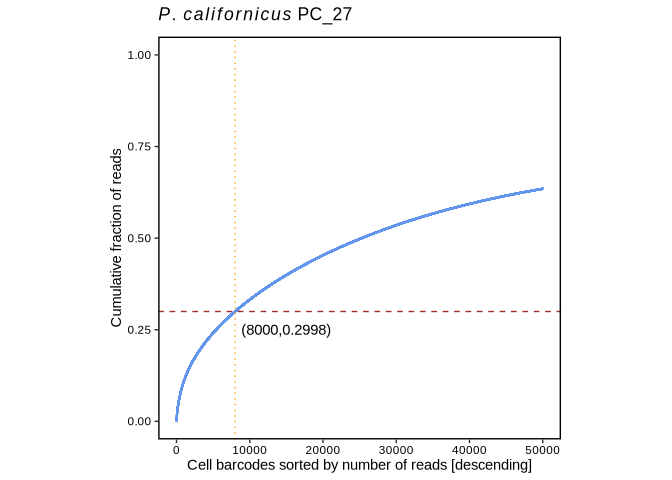
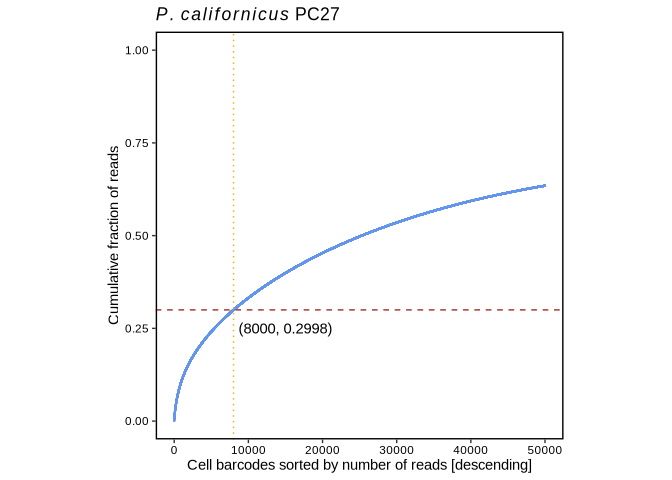
Edit Rmd

diff --git a/scRNAseq_Phymatopus_californicus.md b/scRNAseq_Phymatopus_californicus.md
@@ -1,7 +1,7 @@
-Single-cell RNA sequencing of *Phymatopus californicus* samples
+Single-cell RNA sequencing of *Phymatopus californicus* sample PC27
 ================
-Bulah Wu
-July 15, 2024
+Andrea Elizabeth Acurio Armas, Bulah Wu, Petr Nguyen  
+July 18, 2024
 
 ## Genome assembly and annotation
 
@@ -41,9 +41,7 @@ Size distribution assessed by Bioanalyzer
 
 [FastQC](https://www.bioinformatics.babraham.ac.uk/projects/fastqc/) was
 used for quality check. Output can be found
-[here](/media/nguyen/Data1/github/bulahwoo/scRNAseq_Phymatopus_californicus/data/fastqc_pc27_read1_pre.html)
-and
-[here](/media/nguyen/Data1/github/bulahwoo/scRNAseq_Phymatopus_californicus/data/fastqc_pc27_read2_pre.html).
+[here](fastqc/read1/fastqc.md) and [here](fastqc/read2/fastqc.md).
 
 ## Drop-seq protocol
 
@@ -165,7 +163,7 @@ ggplot(df_pc27, aes(xvalue, yvalue)) +
   geom_hline(aes(yintercept=df_pc27 %>% filter(xvalue==8000) %>% pull(yvalue)), color="brown", linetype=2)+
   geom_vline(aes(xintercept=8000), color="orange", linetype=3)+
   annotate("text", x=15000, y=0.25, label="(8000, 0.2998)")+ # 0.2998019
-  labs(title=expression(italic(P.)~italic(californicus)~"PC_27"), x="Cell barcodes sorted by number of reads [descending]", y="Cumulative fraction of reads") +
+  labs(title=expression(italic(P.)~italic(californicus)~"PC27"), x="Cell barcodes sorted by number of reads [descending]", y="Cumulative fraction of reads") +
   theme_bw() +
   theme(axis.line = element_blank(),
         axis.title = element_text(color="black"),
@@ -176,6 +174,8 @@ ggplot(df_pc27, aes(xvalue, yvalue)) +
         panel.border = element_rect(linewidth = 1, color="black"), aspect.ratio = 1)
 ```
 
+![](scRNAseq_Phymatopus_californicus_files/figure-gfm/knee-plot-1.png)<!-- -->
+
 ## DropletUtils analysis
 
 [Nikos Konstantinides](https://konstantinides-lab.com) suggested using
@@ -185,16 +185,15 @@ cell barcodes (organized by the number of reads, arranged from highest
 to lowest) and the y-axis the total UMI count for each barcode.
 
 ``` r
-for_row_names <- read.table("/media/nguyen/Data1/mao/scseq/dropseq/pc27mito/dge_c10k.txt.gz", header=T, stringsAsFactors=F)$GENE
-m_pc27 <- read.table("/media/nguyen/Data1/mao/scseq/dropseq/pc27mito/dge_c10k.txt.gz", header=T, stringsAsFactors=F, row.names = for_row_names)[,-1]
-br.out <- barcodeRanks(m_pc27)
+mtx_pc27 <- read.table("/media/nguyen/Data1/mao/scseq/dropseq/pc27mito/dge_c8k.txt.gz", header = TRUE, row.names = 1, colClasses =c("character", rep("numeric", 8000)))
+br.out <- barcodeRanks(mtx_pc27)
 o <- order(br.out$rank)
-# metadata(br.out)$knee: 273
-# which(br.out$total==273)[1]
-min_rank <- br.out$rank[3905] # 7321
-# metadata(br.out)$inflection : 114
-# which(br.out$total==114)[1]
-max_rank <- br.out$rank[7873] # 9401
+# metadata(br.out)$knee: 298
+# metadata(br.out)$inflection : 134
+# which(br.out$total==298)[1]
+min_rank <- br.out$rank[which(br.out$total==298)[1]] # 5916.5
+# which(br.out$total==134)[1]
+max_rank <- br.out$rank[which(br.out$total==134)[1]] # 7494
 ggplot()+
   geom_point(aes(x=br.out$rank, y=br.out$total+1), color="grey50", size=0.5, alpha=0.5)+
   geom_line(aes(x=br.out$rank[o],y=br.out$fitted[o]), color="magenta")+
@@ -202,11 +201,11 @@ ggplot()+
   geom_hline(aes(yintercept=metadata(br.out)$inflection), color="brown", linetype=2)+
   geom_vline(aes(xintercept=min_rank), color="orange", linetype=3)+
   geom_vline(aes(xintercept=max_rank), color="orange", linetype=3)+
-  annotate("text", x=2000, y=500, label="(7321, 273)")+
-  annotate("text", x=20000, y=70, label="(9401, 114)")+
+  annotate("text", x=2000, y=500, label="(5916.5, 298)")+
+  annotate("text", x=20000, y=70, label="(7494, 134)")+
   scale_x_continuous(limits=c(1,50000), trans='log10', breaks = c(1,10,100,1000,10000,10000),labels = scales::number)+
   scale_y_continuous(limits=c(1,50000), trans='log10', breaks = c(1,10,100,1000,10000,10000),labels = scales::number)+
-  labs(title=expression(italic(P.)~italic(californicus)~"PC_27"),
+  labs(title=expression(italic(P.)~italic(californicus)~"PC27"),
        x="Cell barcodes sorted by number of counts [descending]",
        y="Total UMI count for each barcode") +
   theme_bw() +
@@ -219,66 +218,72 @@ ggplot()+
         panel.border = element_rect(linewidth = 1, color="black"), aspect.ratio = 1)
 ```
 
-|       | FALSE | TRUE |
-|:------|------:|-----:|
-| FALSE |  2038 | 7016 |
-| TRUE  |     0 |  348 |
+![](scRNAseq_Phymatopus_californicus_files/figure-gfm/barcodeRanks-1.png)<!-- -->
+
+Subset the SingleCellExperiment object to discard the empty droplets.
 
 ``` r
-for_row_names <- read.table("/media/nguyen/Data1/mao/scseq/dropseq/pc27mito/dge_c10k.txt.gz", header=T, stringsAsFactors=F)$GENE
-m_pc27 <- read.table("/media/nguyen/Data1/mao/scseq/dropseq/pc27mito/dge_c10k.txt.gz", header=T, stringsAsFactors=F, row.names = for_row_names)[,-1]
+#mtx_pc27 <- read.table("/media/nguyen/Data1/mao/scseq/dropseq/pc27mito/dge_c8k.txt.gz", header = TRUE, row.names = 1, colClasses =c("character", rep("numeric", 8000)))
 set.seed(100)
-e.out <- emptyDrops(m_pc27, niters=10000)
+e.out <- emptyDrops(mtx_pc27, niters=10000)
 is.cell <- e.out$FDR <= 0.001
 sum(is.cell, na.rm=TRUE)
-knitr::kable(table(Limited=e.out$Limited, Significant=is.cell))
 ```
 
+    ## [1] 5919
+
 ``` r
-ggplot(e.out %>% as.data.frame() %>% filter(!is.na(LogProb)) %>% mutate(FDR_fill=ifelse(FDR>0.001, "cornflowerblue", "orange")))+
-  geom_point(aes(x=Total, y=-LogProb, color=FDR_fill), size=1, alpha=0.5)+
-  scale_color_manual(values=c("cornflowerblue", "orange"), labels=c('FDR > 0.001', 'FDR <= 0.001'))+
-  labs(title=expression(italic(P.)~italic(californicus)~"PC_27"),
-       x="Total UMI count",
-       y="-Log Probability") +
-  theme_bw() +
-  theme(axis.line = element_blank(),
-        axis.title = element_text(color="black"),
-        axis.text = element_text(color="black"),
-        legend.title = element_blank(),
-        legend.position = "inside",
-        legend.position.inside = c(0.8, 0.2),
-        panel.grid.major = element_blank(),
-        panel.grid.minor = element_blank(),
-        panel.background = element_blank(),
-        panel.border = element_rect(linewidth = 1, color="black"), aspect.ratio = 1)
+table(Limited=e.out$Limited, Significant=is.cell)
+```
+
+    ##        Significant
+    ## Limited FALSE TRUE
+    ##   FALSE  1576 5430
+    ##   TRUE      0  489
+
+``` r
+mtx_pc27 <- mtx_pc27[,which(e.out$FDR<=0.001)]
 ```
 
 ## UMAP plot
 
-We used [Seurat](https://satijalab.org/seurat) to generate the UMAP
+[Seurat](https://satijalab.org/seurat) was used to generate the UMAP
 plot.
 
 ``` r
-mtx_pc27 <- read.table("/media/nguyen/Data1/mao/scseq/dropseq/pc27mito/dge_c10k.txt.gz", header = TRUE, row.names = 1, colClasses =c("character", rep("numeric", 10000)))
 so_pc27 <- CreateSeuratObject(counts = mtx_pc27, min.cells = 3, min.features = 200, project = "pc27") %>%
            PercentageFeatureSet(pattern = "^agat|^rrn", col.name = "percent.mt") %>%
+           subset(subset = nFeature_RNA > 200 & nFeature_RNA < 2500 & percent.mt < 5) %>%
            SCTransform(vars.to.regress = "percent.mt") %>%
            RunPCA() %>%
            FindNeighbors(dims = 1:30) %>%
            RunUMAP(dims = 1:30) %>%
            FindClusters()
+```
+
+    ## Modularity Optimizer version 1.3.0 by Ludo Waltman and Nees Jan van Eck
+    ## 
+    ## Number of nodes: 5903
+    ## Number of edges: 163017
+    ## 
+    ## Running Louvain algorithm...
+    ## Maximum modularity in 10 random starts: 0.7222
+    ## Number of communities: 12
+    ## Elapsed time: 0 seconds
+
+``` r
 df_umap <- so_pc27@reductions$umap@cell.embeddings %>% as.data.frame() %>% cbind(color=so_pc27@meta.data$seurat_clusters)
-my_color <- c(brewer.pal(name="Set2", n=8),brewer.pal(name="Dark2", n=8))[c(1,3,2,4,5:8,12,14,15)]
+#length(unique(df_umap$color))
+my_color <- c(brewer.pal(name="Set2", n=8),brewer.pal(name="Dark2", n=8))[c(1,3,2,4,5,6,7,8,12,14,15,16)]
+#my_color <- c(brewer.pal(name="Set2", n=8),brewer.pal(name="Dark2", n=8))[c(1,3,2,5,4,6,7,16,12,14,15,8,11)]
 ggplot(df_umap) +
   geom_point(aes(x=umap_1, y=umap_2, color=color), size=0.8) +
   geom_text_repel(data=df_umap %>% group_by(color) %>% summarise(q1=quantile(umap_1, 0.5), q2=quantile(umap_2, 0.5)),
-                  aes(x=q1, y=q2, label = LETTERS[1:11]), size=8) +
-  labs(title=expression(italic(P.)~italic(californicus)~"PC_27"),
+                  aes(x=q1, y=q2, label = LETTERS[1:12]), size=8) +
+  labs(title=expression(italic(P.)~italic(californicus)~"PC27"),
        x="UMAP_1",
        y="UMAP_2") +
-  #scale_color_brewer(palette = "Set2", name="clusters", labels=LETTERS[1:11]) +
-  scale_color_manual(values = my_color, name="clusters", labels=LETTERS[1:11]) +
+  scale_color_manual(values = my_color, name="clusters", labels=LETTERS[1:12]) +
   guides(color = guide_legend(override.aes = list(size = 5))) +
   theme_bw() +
   theme(axis.line = element_blank(),
@@ -292,6 +297,8 @@ ggplot(df_umap) +
         panel.background = element_blank(),
         panel.border = element_rect(linewidth = 1, color="black"), aspect.ratio = 1)
 ```
+
+![](scRNAseq_Phymatopus_californicus_files/figure-gfm/umap-plot-1.png)<!-- -->
 
 ## Session info
 
@@ -331,67 +338,69 @@ ggplot(df_umap) +
     ## [21] ggplot2_3.5.1              
     ## 
     ## loaded via a namespace (and not attached):
-    ##   [1] jsonlite_1.8.8            magrittr_2.0.3           
-    ##   [3] spatstat.utils_3.0-5      zlibbioc_1.48.2          
-    ##   [5] vctrs_0.6.5               ROCR_1.0-11              
-    ##   [7] DelayedMatrixStats_1.24.0 spatstat.explore_3.2-7   
-    ##   [9] RCurl_1.98-1.14           S4Arrays_1.2.1           
-    ##  [11] htmltools_0.5.8.1         Rhdf5lib_1.24.2          
-    ##  [13] rhdf5_2.46.1              SparseArray_1.2.4        
-    ##  [15] sctransform_0.4.1         parallelly_1.37.1        
-    ##  [17] KernSmooth_2.23-24        htmlwidgets_1.6.4        
-    ##  [19] ica_1.0-3                 plyr_1.8.9               
-    ##  [21] plotly_4.10.4             zoo_1.8-12               
-    ##  [23] igraph_2.0.3              mime_0.12                
-    ##  [25] lifecycle_1.0.4           pkgconfig_2.0.3          
-    ##  [27] Matrix_1.6-5              R6_2.5.1                 
-    ##  [29] fastmap_1.2.0             GenomeInfoDbData_1.2.11  
-    ##  [31] fitdistrplus_1.1-11       future_1.33.2            
-    ##  [33] shiny_1.8.1.1             digest_0.6.36            
-    ##  [35] colorspace_2.1-0          tensor_1.5               
-    ##  [37] dqrng_0.4.1               RSpectra_0.16-1          
-    ##  [39] irlba_2.3.5.1             beachmat_2.18.1          
-    ##  [41] progressr_0.14.0          fansi_1.0.6              
-    ##  [43] spatstat.sparse_3.1-0     httr_1.4.7               
-    ##  [45] polyclip_1.10-6           abind_1.4-5              
-    ##  [47] compiler_4.3.3            withr_3.0.0              
-    ##  [49] BiocParallel_1.36.0       fastDummies_1.7.3        
-    ##  [51] highr_0.11                R.utils_2.12.3           
-    ##  [53] HDF5Array_1.30.1          MASS_7.3-60              
-    ##  [55] DelayedArray_0.28.0       tools_4.3.3              
-    ##  [57] lmtest_0.9-40             httpuv_1.6.15            
-    ##  [59] future.apply_1.11.2       goftest_1.2-3            
-    ##  [61] R.oo_1.26.0               glue_1.7.0               
-    ##  [63] rhdf5filters_1.14.1       nlme_3.1-165             
-    ##  [65] promises_1.3.0            grid_4.3.3               
-    ##  [67] Rtsne_0.17                cluster_2.1.6            
-    ##  [69] reshape2_1.4.4            generics_0.1.3           
-    ##  [71] gtable_0.3.5              spatstat.data_3.1-2      
-    ##  [73] R.methodsS3_1.8.2         data.table_1.15.4        
-    ##  [75] utf8_1.2.4                XVector_0.42.0           
-    ##  [77] spatstat.geom_3.2-9       RcppAnnoy_0.0.22         
-    ##  [79] RANN_2.6.1                pillar_1.9.0             
-    ##  [81] stringr_1.5.1             limma_3.58.1             
-    ##  [83] spam_2.10-0               RcppHNSW_0.6.0           
-    ##  [85] later_1.3.2               splines_4.3.3            
-    ##  [87] lattice_0.22-6            survival_3.7-0           
-    ##  [89] deldir_2.0-4              tidyselect_1.2.1         
-    ##  [91] locfit_1.5-9.10           scuttle_1.12.0           
-    ##  [93] miniUI_0.1.1.1            pbapply_1.7-2            
-    ##  [95] knitr_1.48                gridExtra_2.3            
-    ##  [97] edgeR_4.0.16              scattermore_1.2          
-    ##  [99] xfun_0.45                 statmod_1.5.0            
-    ## [101] stringi_1.8.4             lazyeval_0.2.2           
-    ## [103] yaml_2.3.9                evaluate_0.24.0          
-    ## [105] codetools_0.2-20          tibble_3.2.1             
-    ## [107] cli_3.6.3                 uwot_0.2.2               
-    ## [109] xtable_1.8-4              reticulate_1.38.0        
-    ## [111] munsell_0.5.1             Rcpp_1.0.12              
-    ## [113] globals_0.16.3            spatstat.random_3.2-3    
-    ## [115] png_0.1-8                 parallel_4.3.3           
-    ## [117] dotCall64_1.1-1           sparseMatrixStats_1.14.0 
-    ## [119] bitops_1.0-7              listenv_0.9.1            
-    ## [121] viridisLite_0.4.2         scales_1.3.0             
-    ## [123] ggridges_0.5.6            crayon_1.5.3             
-    ## [125] leiden_0.4.3.1            purrr_1.0.2              
-    ## [127] rlang_1.1.4               cowplot_1.1.3
+    ##   [1] RcppAnnoy_0.0.22          splines_4.3.3            
+    ##   [3] later_1.3.2               bitops_1.0-7             
+    ##   [5] tibble_3.2.1              R.oo_1.26.0              
+    ##   [7] polyclip_1.10-6           fastDummies_1.7.3        
+    ##   [9] lifecycle_1.0.4           edgeR_4.0.16             
+    ##  [11] globals_0.16.3            lattice_0.22-6           
+    ##  [13] MASS_7.3-60               magrittr_2.0.3           
+    ##  [15] limma_3.58.1              plotly_4.10.4            
+    ##  [17] yaml_2.3.9                httpuv_1.6.15            
+    ##  [19] glmGamPoi_1.14.3          sctransform_0.4.1        
+    ##  [21] spam_2.10-0               spatstat.sparse_3.1-0    
+    ##  [23] reticulate_1.38.0         cowplot_1.1.3            
+    ##  [25] pbapply_1.7-2             abind_1.4-5              
+    ##  [27] zlibbioc_1.48.2           Rtsne_0.17               
+    ##  [29] purrr_1.0.2               R.utils_2.12.3           
+    ##  [31] RCurl_1.98-1.14           GenomeInfoDbData_1.2.11  
+    ##  [33] irlba_2.3.5.1             listenv_0.9.1            
+    ##  [35] spatstat.utils_3.0-5      goftest_1.2-3            
+    ##  [37] RSpectra_0.16-1           spatstat.random_3.2-3    
+    ##  [39] dqrng_0.4.1               fitdistrplus_1.1-11      
+    ##  [41] parallelly_1.37.1         DelayedMatrixStats_1.24.0
+    ##  [43] leiden_0.4.3.1            codetools_0.2-20         
+    ##  [45] DelayedArray_0.28.0       scuttle_1.12.0           
+    ##  [47] tidyselect_1.2.1          farver_2.1.2             
+    ##  [49] spatstat.explore_3.2-7    jsonlite_1.8.8           
+    ##  [51] progressr_0.14.0          ggridges_0.5.6           
+    ##  [53] survival_3.7-0            tools_4.3.3              
+    ##  [55] ica_1.0-3                 Rcpp_1.0.12              
+    ##  [57] glue_1.7.0                gridExtra_2.3            
+    ##  [59] SparseArray_1.2.4         xfun_0.45                
+    ##  [61] HDF5Array_1.30.1          withr_3.0.0              
+    ##  [63] fastmap_1.2.0             rhdf5filters_1.14.1      
+    ##  [65] fansi_1.0.6               digest_0.6.36            
+    ##  [67] R6_2.5.1                  mime_0.12                
+    ##  [69] colorspace_2.1-0          scattermore_1.2          
+    ##  [71] tensor_1.5                spatstat.data_3.1-2      
+    ##  [73] R.methodsS3_1.8.2         utf8_1.2.4               
+    ##  [75] generics_0.1.3            data.table_1.15.4        
+    ##  [77] httr_1.4.7                htmlwidgets_1.6.4        
+    ##  [79] S4Arrays_1.2.1            uwot_0.2.2               
+    ##  [81] pkgconfig_2.0.3           gtable_0.3.5             
+    ##  [83] lmtest_0.9-40             XVector_0.42.0           
+    ##  [85] htmltools_0.5.8.1         dotCall64_1.1-1          
+    ##  [87] scales_1.3.0              png_0.1-8                
+    ##  [89] knitr_1.48                reshape2_1.4.4           
+    ##  [91] nlme_3.1-165              zoo_1.8-12               
+    ##  [93] rhdf5_2.46.1              stringr_1.5.1            
+    ##  [95] KernSmooth_2.23-24        parallel_4.3.3           
+    ##  [97] miniUI_0.1.1.1            pillar_1.9.0             
+    ##  [99] grid_4.3.3                vctrs_0.6.5              
+    ## [101] RANN_2.6.1                promises_1.3.0           
+    ## [103] beachmat_2.18.1           xtable_1.8-4             
+    ## [105] cluster_2.1.6             evaluate_0.24.0          
+    ## [107] cli_3.6.3                 locfit_1.5-9.10          
+    ## [109] compiler_4.3.3            rlang_1.1.4              
+    ## [111] crayon_1.5.3              future.apply_1.11.2      
+    ## [113] labeling_0.4.3            plyr_1.8.9               
+    ## [115] stringi_1.8.4             viridisLite_0.4.2        
+    ## [117] deldir_2.0-4              BiocParallel_1.36.0      
+    ## [119] munsell_0.5.1             lazyeval_0.2.2           
+    ## [121] spatstat.geom_3.2-9       Matrix_1.6-5             
+    ## [123] RcppHNSW_0.6.0            sparseMatrixStats_1.14.0 
+    ## [125] future_1.33.2             Rhdf5lib_1.24.2          
+    ## [127] statmod_1.5.0             shiny_1.8.1.1            
+    ## [129] highr_0.11                ROCR_1.0-11              
+    ## [131] igraph_2.0.3
